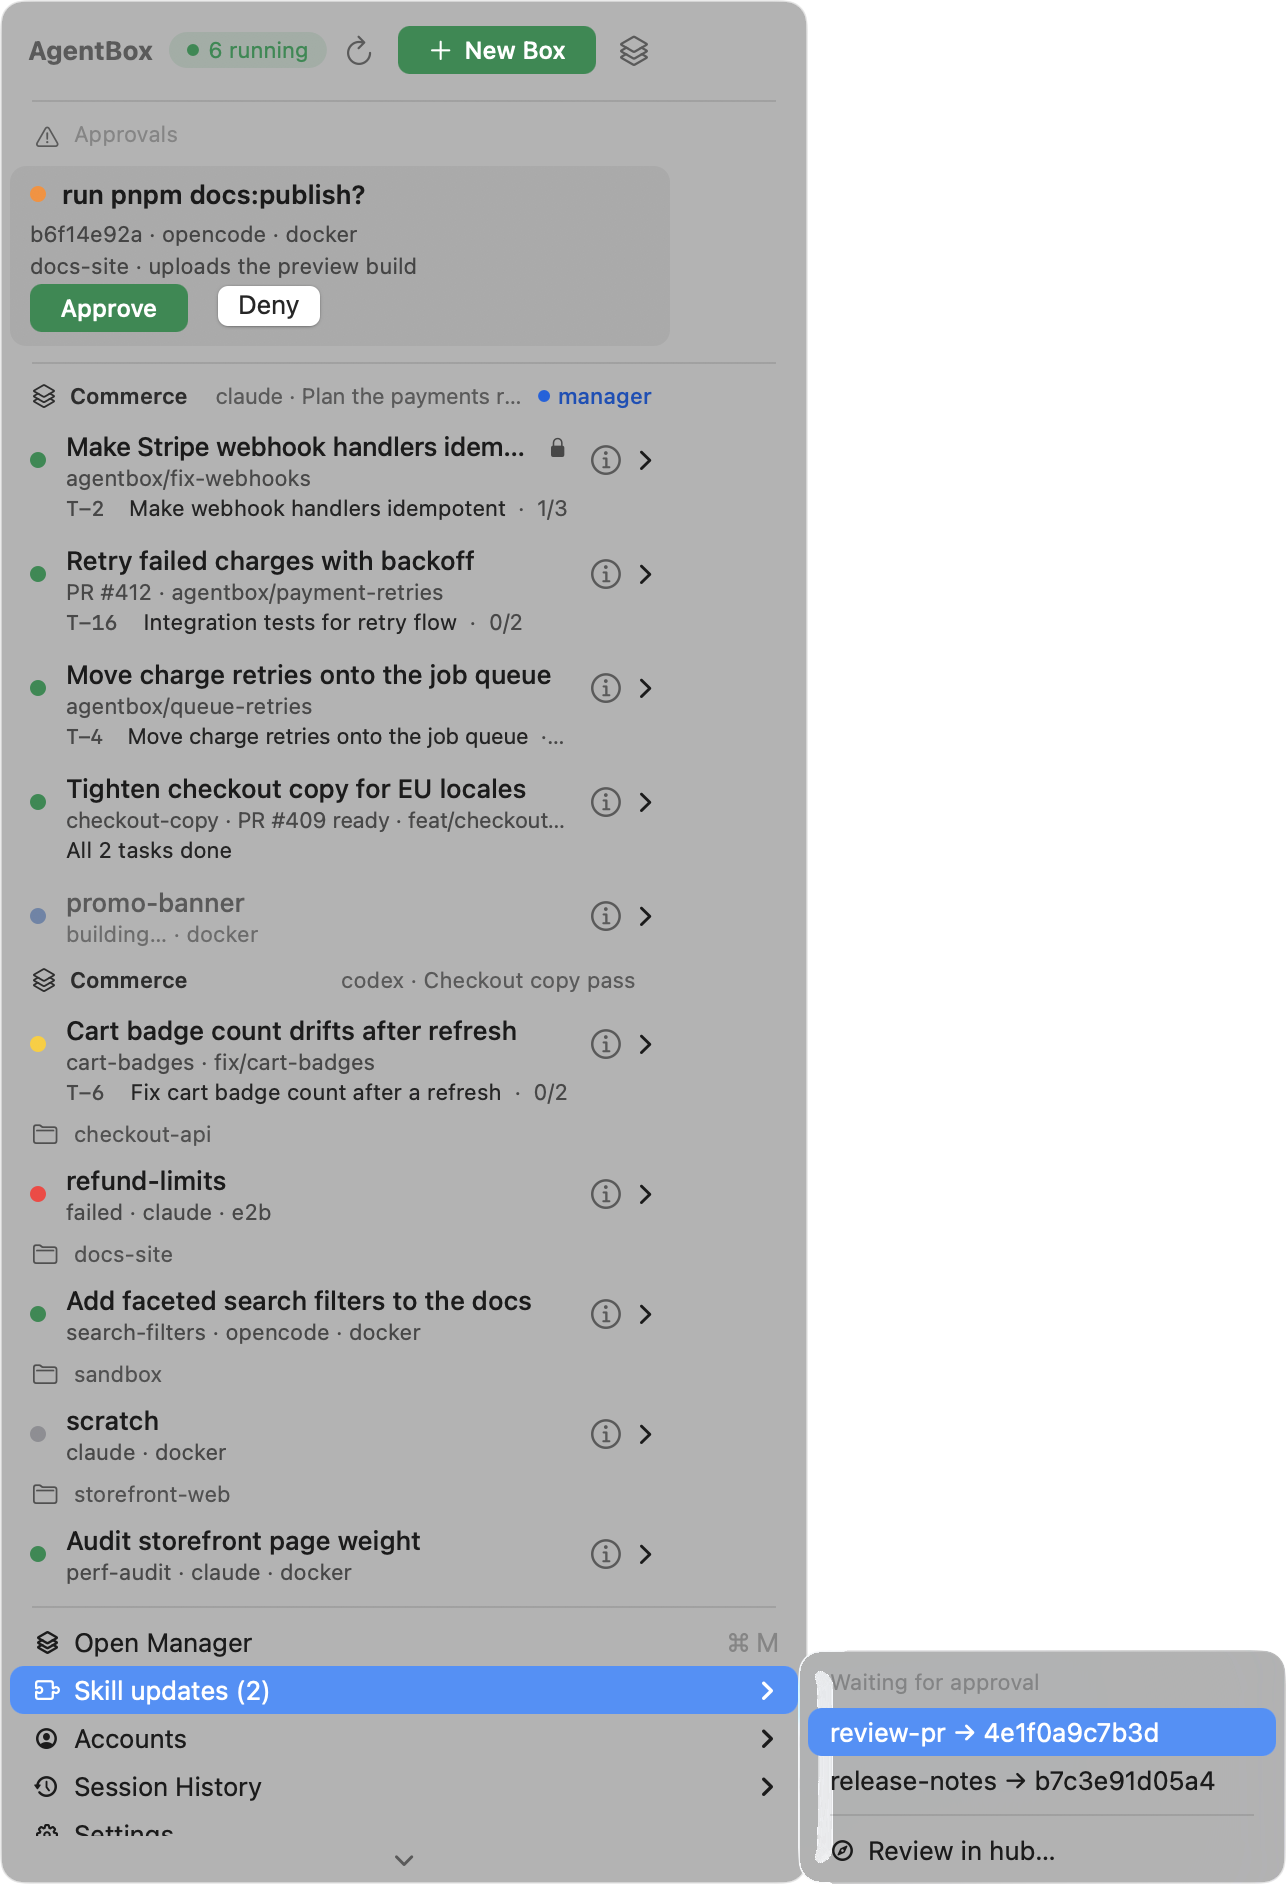
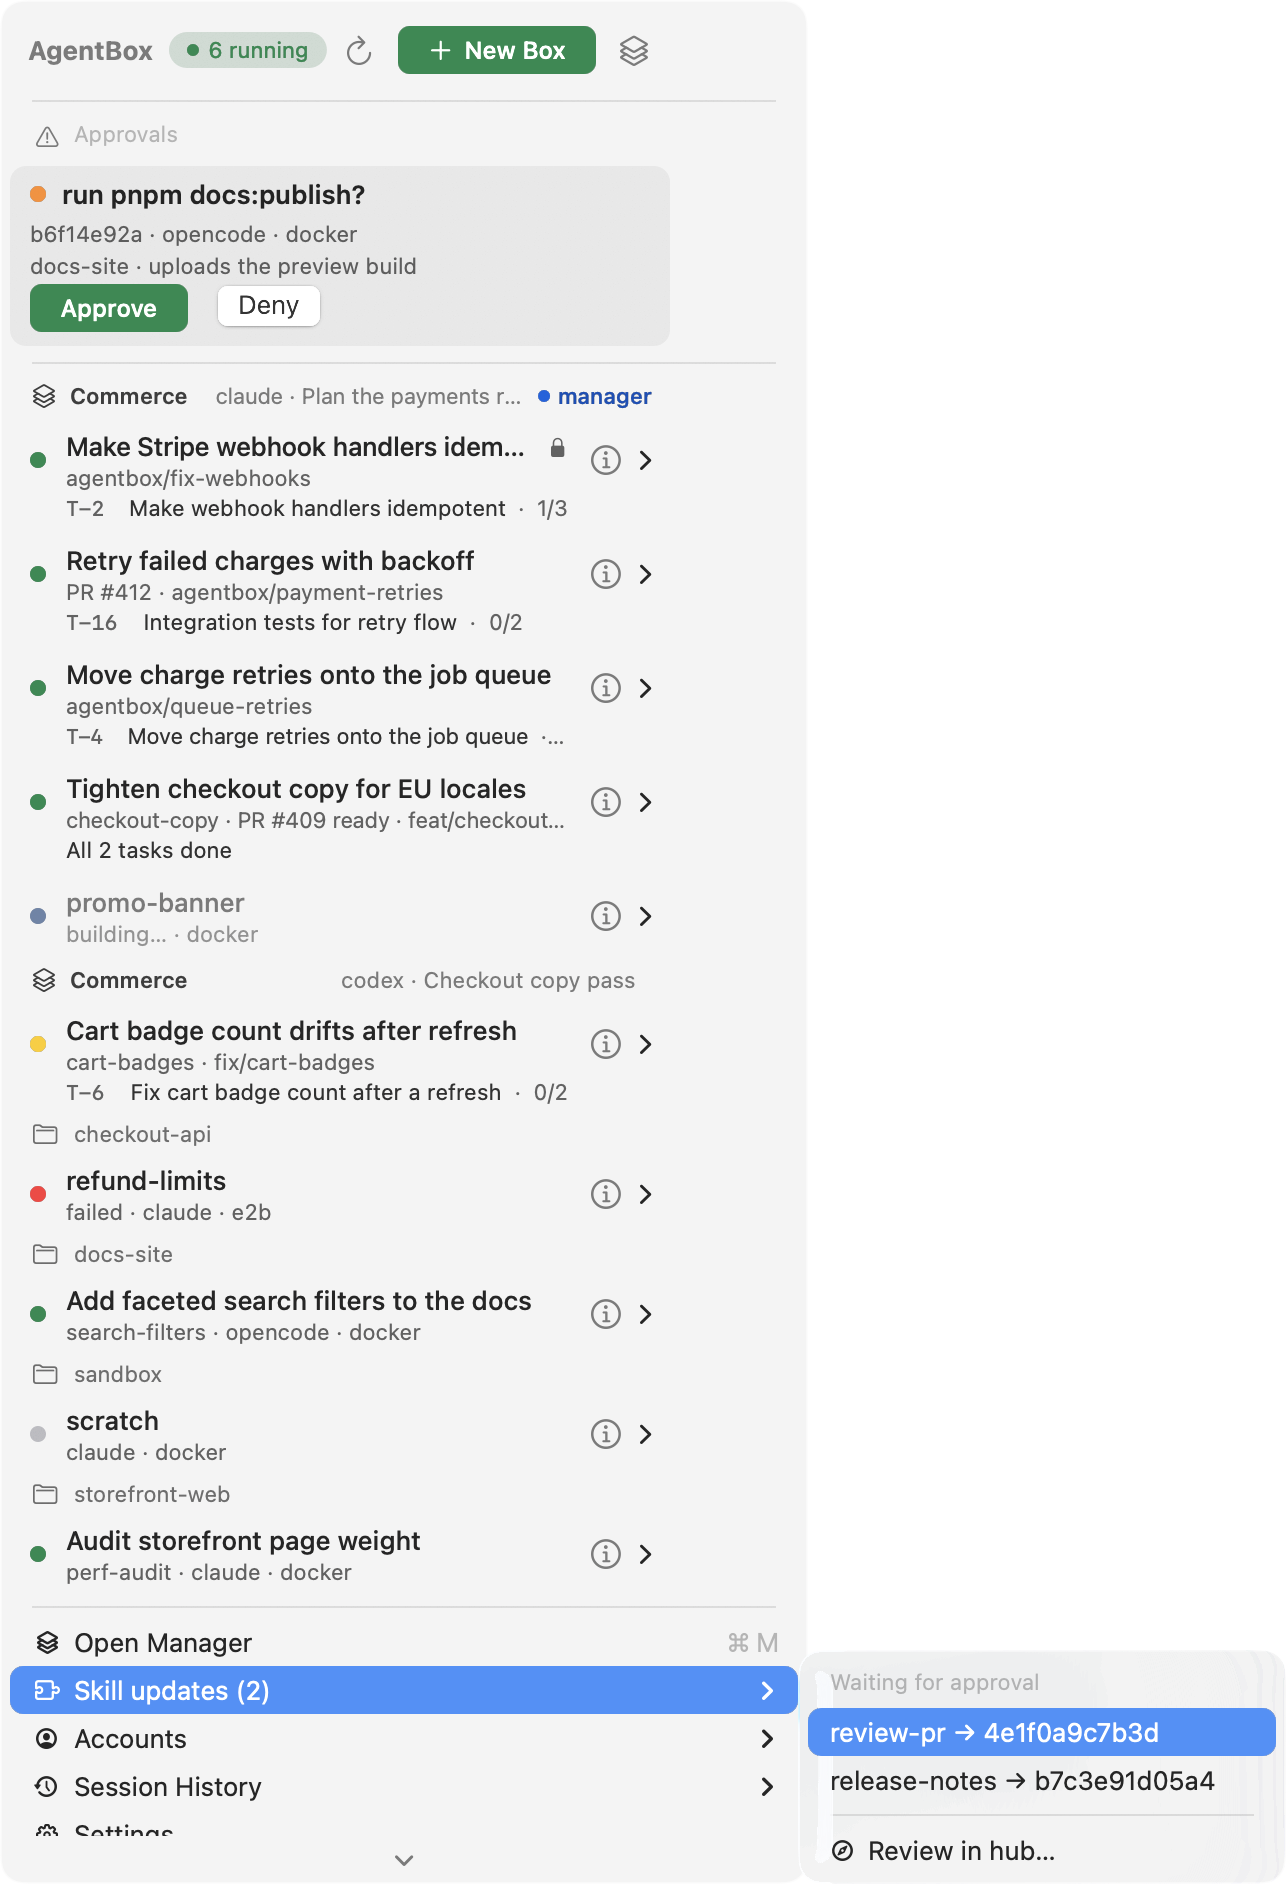
fix(catalog): draw tray menus and alerts over a light backdrop
screencapture -l takes a menu or alert window alone, so its translucent
material is blended over black and reads as flat dark gray. backdrop.mjs
redraws it over a light desktop; shoot-tray runs it after every menu or
alert capture, and the five existing tray shots are converted.

diff --git a/catalog/README.md b/catalog/README.md
@@ -30,6 +30,7 @@ export command to copy.
 | `scripts/fixture-hub.mjs` | The real hub UI (`apps/hub`'s production build) on the fixtures, at 127.0.0.1:3126. |
 | `scripts/shoot.mjs` | A hub page screenshot (Playwright, 1440x900 at 2x, clock pinned). |
 | `scripts/shoot-tray.mjs` | A tray screenshot: `AgentBoxE2E.app --fixtures`, driven through Accessibility. |
+| `scripts/backdrop.mjs` | Redraws a tray menu or alert's see-through material over a light desktop (`shoot:tray` runs it; the bare capture is dark gray). |
 | `scripts/shoot-cli.mjs` | A CLI screenshot: the real CLI in a PTY, drawn into a terminal window. |
 | `scripts/frame.mjs` | The social canvas, shared by the export and the gallery preview. |
 | `scripts/export.mjs` | Writes the social PNGs to `out/social/`. |
